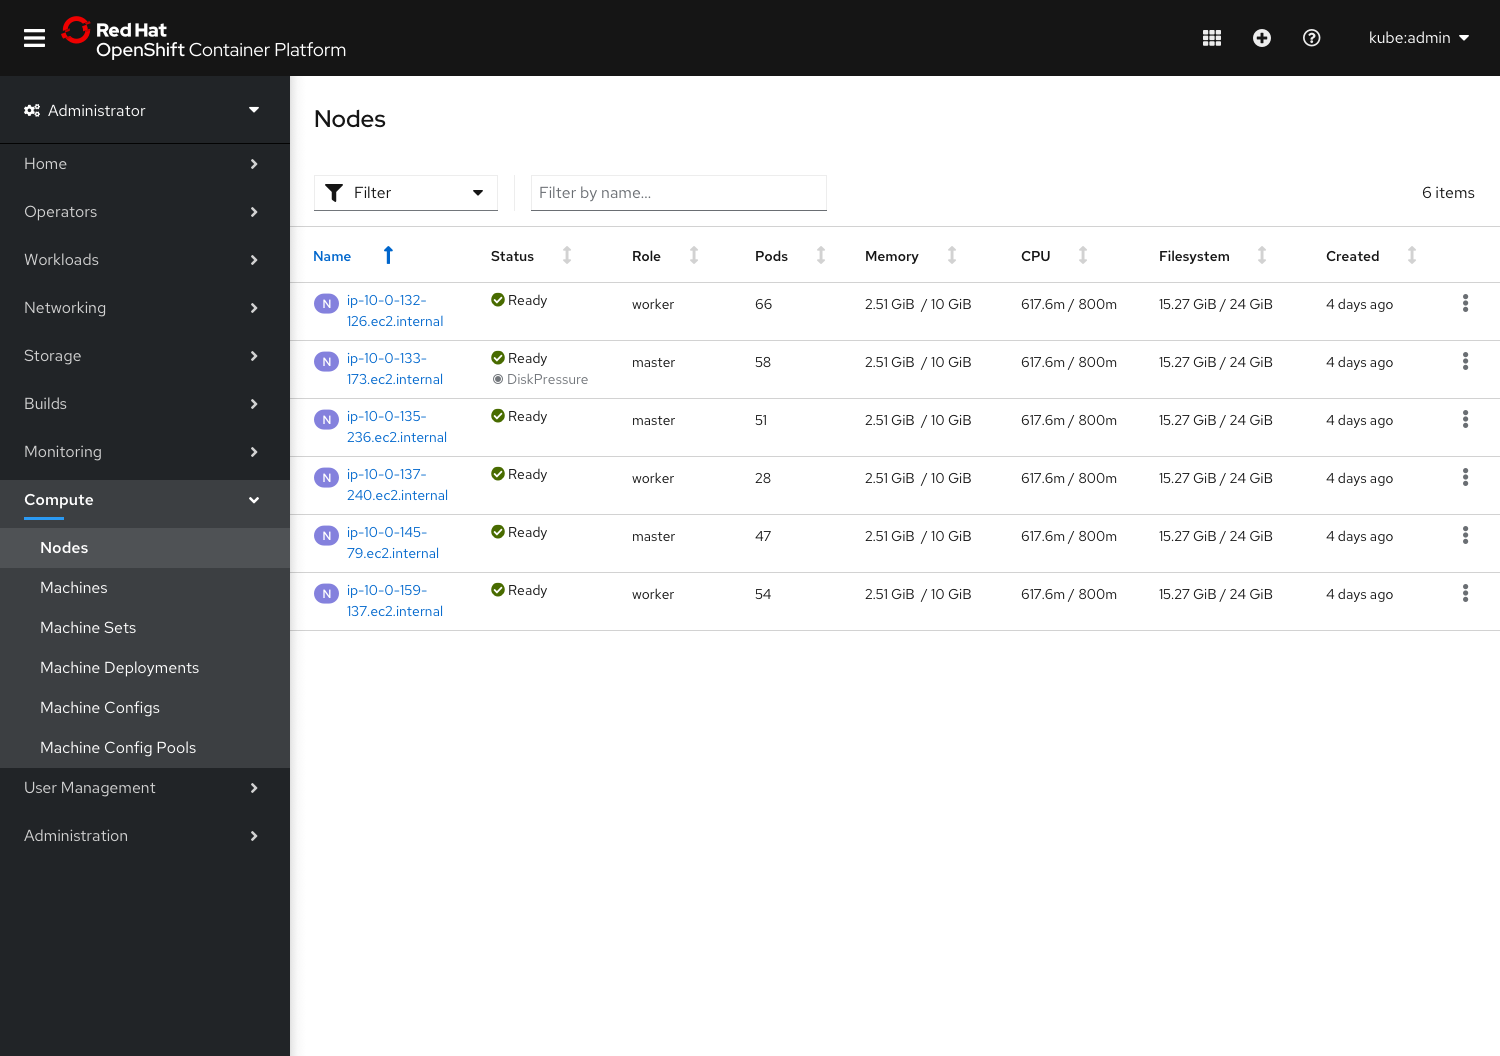
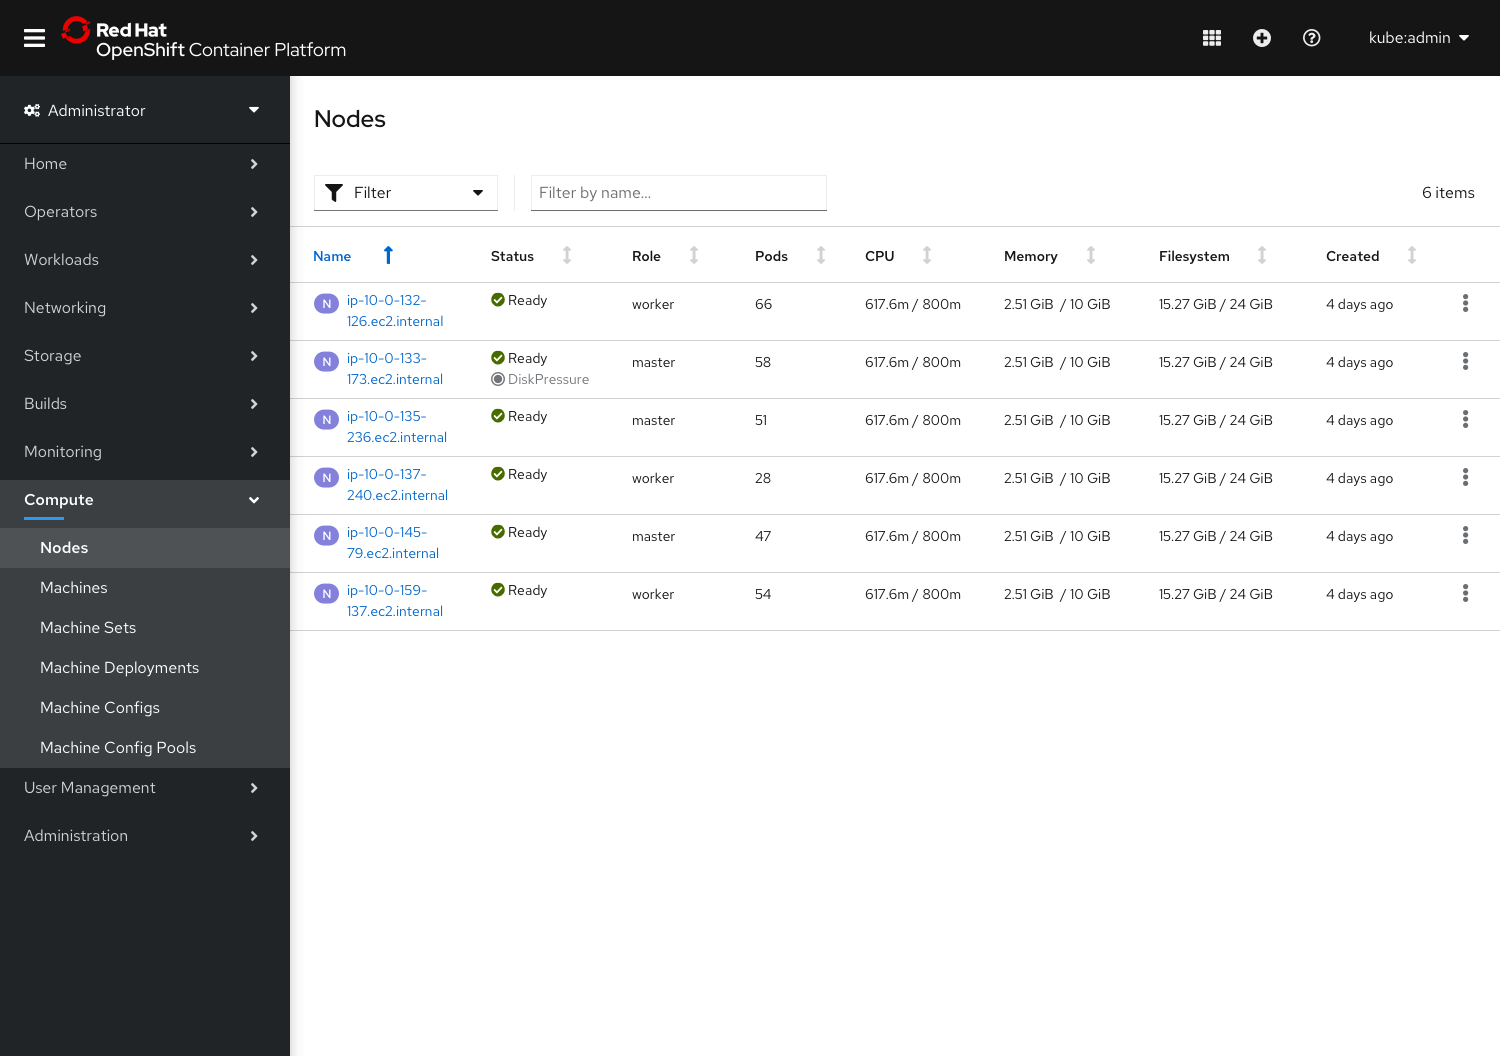
Minor updates to column order and wording

diff --git a/designs/administrator/4.4/list-updates/index.md b/designs/administrator/4.4/list-updates/index.md
@@ -17,9 +17,9 @@ version: 4.4
 
 ## Nodes List
 ![](img/nodes1.png)
-* The Nodes list view will have 8 columns: Name, Status, Role, Pods, Memory, CPU, Filesystem, and Created.
+* The Nodes list view will have 8 columns: Name, Status, Role, Pods, CPU, Memory, Filesystem, and Created.
 * The status column will also surface any degraded conditions below the general node status.
 * The filter dropdown will give users the option to filter on Status or Role. See [toolbar documentation](https://openshift.github.io/openshift-origin-design/designs/administrator/future-openshift/toolbars/) for more information about the Nodes page toolbar.
 
 ![](img/nodes2.png)
-* A new option to filter on "Conditions degraded" will be available.
+* A new option to filter on "Degraded conditions" will be available.
